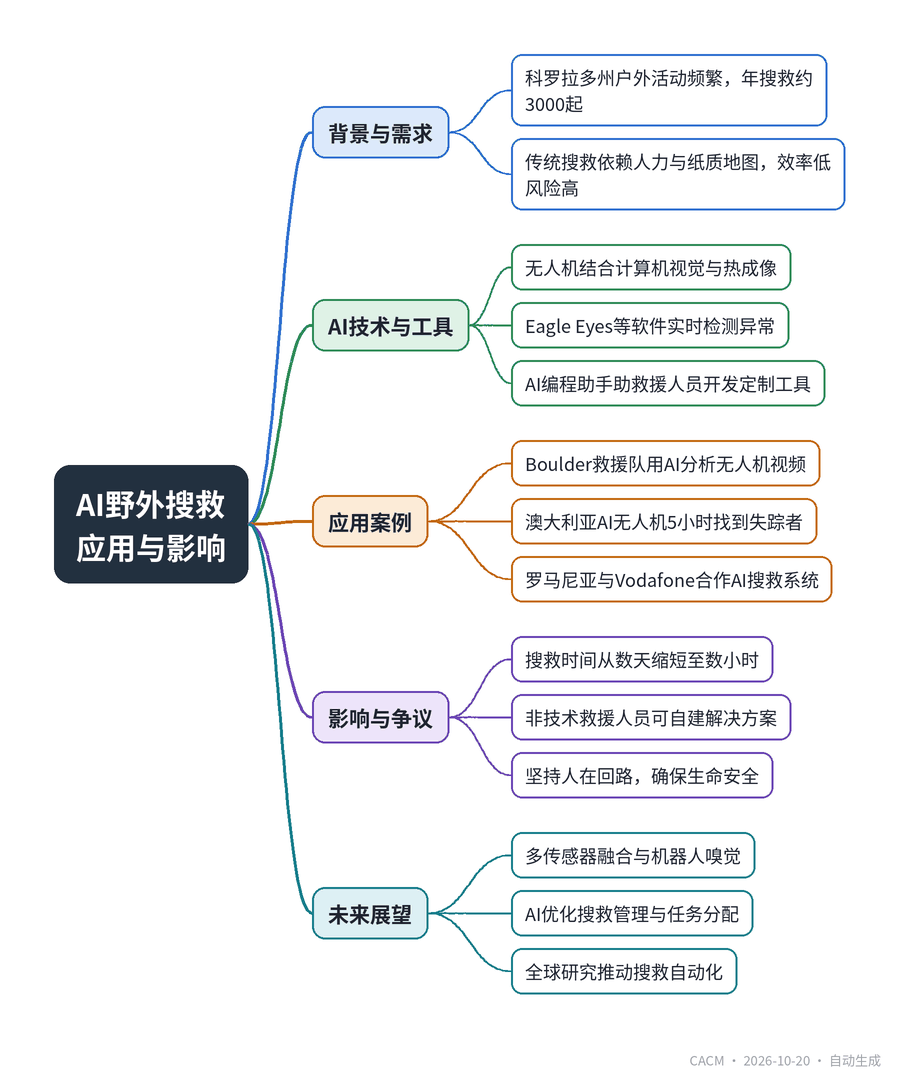
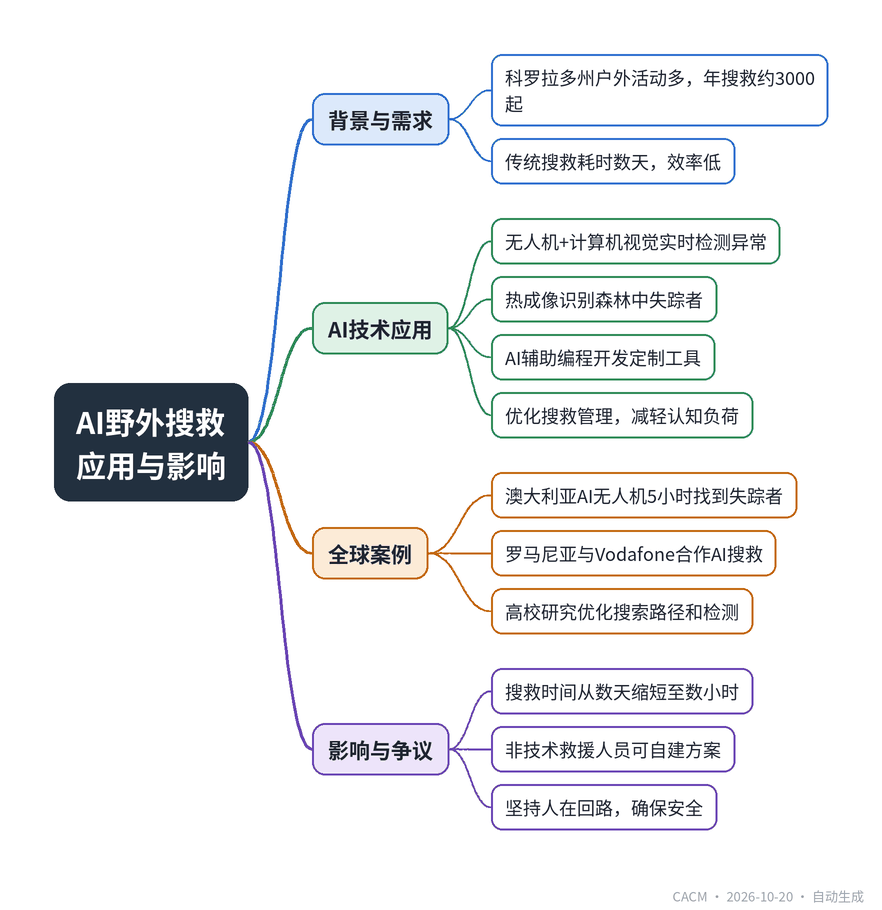
chore: CACM daily 2026-10-26

Changed region(s): [[0.0612, 0.0308, 0.949, 0.9538], [0.7653, 0.9846, 0.9796, 1.0]]

diff --git a/articles/2026-10-19-ai-finds-its-way-into-backcountry-search-and-rescue/article.md b/articles/2026-10-19-ai-finds-its-way-into-backcountry-search-and-rescue/article.md
@@ -4,7 +4,7 @@
 
 **来源**：Communications of the ACM（News）　|　**发布**：2026-10-19 14:12（美东）　|　**北京时间**：2026-10-20 02:12　|　**作者**：Karen Emslie
 
-[原文链接](https://cacm.acm.org/news/ai-finds-its-way-into-backcountry-search-and-rescue/)　·　生成于 2026-10-25 16:19
+[原文链接](https://cacm.acm.org/news/ai-finds-its-way-into-backcountry-search-and-rescue/)　·　生成于 2026-10-26 15:03
 
 ![思维导图](mindmap.png)
 
@@ -12,37 +12,36 @@
 
 ## 一、摘要
 
-> AI正帮助搜救队定位和营救失踪者，并让部分救援人员变身程序员。
+> AI帮助搜救队定位和救援，甚至让救援者变身程序员。
 
-在科罗拉多州，每年约发生3000起搜救事件，传统搜救依赖人力与纸质地图，耗时且风险高。自2013年起，Boulder紧急救援队开始使用无人机，如今结合计算机视觉、热成像和AI软件（如Eagle Eyes），能实时分析无人机视频，识别异常颜色、形状或运动，从而快速定位失踪者。AI还使非技术救援人员能借助编程助手开发定制工具，如无人机定位器和视频流系统，并优化搜救管理流程。全球范围内，澳大利亚、罗马尼亚、英国和意大利的研究团队也在探索AI搜救应用。尽管AI提升了效率，救援人员强调必须保持“人在回路”的验证，确保生命安全。
+在科罗拉多州等荒野地区，每年约有3000起搜救事件，传统搜救耗时数天。无人机与AI技术正成为搜救的关键工具，通过计算机视觉、热成像和异常检测，能实时分析无人机画面，识别失踪者。博尔德应急小队使用Eagle Eyes等软件，将搜救时间从数天缩短至数小时。AI还让非技术救援人员能自行构建解决方案，如用AI辅助编程开发无人机定位和视频流系统。同时，AI被用于优化搜救管理，减轻第一小时的认知负荷。全球范围内，澳大利亚、罗马尼亚等地也在应用AI搜救。尽管拥抱AI，救援人员坚持“人在回路”验证，确保生命安全。
 
 ## 二、核心要点
 
-1. 科罗拉多州每年约发生3000起搜救事件，Boulder紧急救援队自2013年起使用无人机，结合AI技术提升搜救效率。
-2. AI软件如Eagle Eyes能实时分析无人机视频，通过颜色、形状异常检测定位失踪者，热成像可穿透森林等视觉障碍。
-3. 救援人员利用AI编程助手开发定制工具，如无人机定位器和视频流系统，满足特定技术和隐私需求。
-4. AI还用于优化搜救管理，自动化签到和表单填写，并在搜救第一小时提供初步规划和任务分配建议。
-5. 全球多个团队在研究AI搜救，如澳大利亚用AI无人机5小时内找到失踪徒步者，罗马尼亚与Vodafone合作开发AI搜救系统。
-6. 救援人员坚持“人在回路”原则，强调AI决策必须经过经验丰富的救援人员验证，以确保生命安全。
+1. 科罗拉多州每年约3000起搜救事件，AI和无人机将部分搜救从数天缩短至数小时。
+2. 博尔德应急小队使用Eagle Eyes等软件，通过计算机视觉和热成像实时检测异常，定位失踪者。
+3. AI作为编程助手，让非技术救援人员开发定制工具，如无人机定位和视频流系统。
+4. AI用于优化搜救管理，自动化签到和表单填写，减轻第一小时的认知负荷。
+5. 全球应用：澳大利亚用AI无人机5小时找到失踪徒步者，罗马尼亚与Vodafone合作开发AI搜救系统。
+6. 救援人员坚持“人在回路”验证，确保AI决策不危及生命安全。
 
 ## 三、关键词对照
 
 | English | 中文 |
 | --- | --- |
 | Search and Rescue (SAR) | 搜救 |
-| computer vision | 计算机视觉 |
-| thermal imaging | 热成像 |
-| anomaly detection | 异常检测 |
-| human-in-the-loop | 人在回路 |
-| deep reinforcement learning | 深度强化学习 |
-| drone swarm | 无人机集群 |
-| georeferenced aerial maps | 地理参考航空地图 |
+| Computer Vision | 计算机视觉 |
+| Thermal Imaging | 热成像 |
+| Anomaly Detection | 异常检测 |
+| Human-in-the-loop | 人在回路 |
+| Deep Reinforcement Learning | 深度强化学习 |
+| Secure Reliable Transport (SRT) | 安全可靠传输 |
 
 ## 四、中英对照全文
 
 Encountering a drone during a revitalizing mountain hike can feel irksome and intrusive unless you are lost or injured; then, it just might save your life. Drone technologies and AI are increasingly vital components of search and rescue (SAR) assignments. In some cases, SAR efforts that previously took days can be reduced to hours. AI is not only transforming how SAR is carried out, but it is also enabling rescuers to build bespoke solutions for their teams.
 
-> 在令人心旷神怡的山间徒步时遇到无人机可能会让人感到厌烦和侵扰，除非你迷路或受伤；那时，它可能正好能救你一命。无人机技术和人工智能正日益成为搜救（SAR）任务中至关重要的组成部分。在某些情况下，过去需要数天的搜救工作可以缩短到数小时。人工智能不仅正在改变搜救的实施方式，还使救援人员能够为其团队构建定制化解决方案。
+> 在令人心旷神怡的山间徒步时遇到无人机可能会让人感到烦躁和受侵扰，除非你迷路或受伤了；那时，它可能正好能救你一命。无人机技术和人工智能正日益成为搜救（SAR）任务中至关重要的组成部分。在某些情况下，过去需要数天的搜救工作可以缩短到数小时。人工智能不仅正在改变搜救的实施方式，还使救援人员能够为其团队构建定制化解决方案。
 
 A New Team Member
 
@@ -50,35 +49,35 @@ A New Team Member
 
 Think Colorado, think wilderness. The 103,717.5 sq. mi. state abounds with mountains, canyons, ravines, rivers, and forests; it has an average altitude of 6,800 ft., rising to a peak of 14,433 ft. at Mount Elbert. It is an outdoor enthusiast’s paradise. According to a report by market research firm Longwoods International, Colorado received 96.8 million visitors in 2025. In summer, millions of people safely enjoy activities like hiking, climbing, and whitewater rafting, but inevitably, some get lost or injured. Each year, the Colorado Search and Rescue Association (CSAR) responds to around 3,000 SAR incidents, which can also include urban SAR when, for example, a child or an Alzheimer’s patient becomes lost.
 
-> 想到科罗拉多，就想到荒野。这个面积103,717.5平方英里的州遍布山脉、峡谷、沟壑、河流和森林；平均海拔6,800英尺，在埃尔伯特山达到14,433英尺的顶峰。它是户外爱好者的天堂。根据市场研究公司Longwoods International的一份报告，科罗拉多州在2025年接待了9680万游客。夏季，数百万人安全地享受徒步、攀岩和激流漂流等活动，但不可避免地，有些人会迷路或受伤。每年，科罗拉多搜救协会（CSAR）响应约3,000起搜救事件，其中也可能包括城市搜救，例如儿童或阿尔茨海默病患者走失。
+> 想到科罗拉多，就想到荒野。这个面积103,717.5平方英里的州遍布山脉、峡谷、沟壑、河流和森林；平均海拔6,800英尺，在埃尔伯特山达到14,433英尺的顶峰。它是户外爱好者的天堂。根据市场研究公司Longwoods International的一份报告，科罗拉多州在2025年接待了9680万游客。夏季，数百万人安全地享受徒步、攀登和激流漂流等活动，但不可避免地，有些人会迷路或受伤。每年，科罗拉多搜救协会（CSAR）响应约3,000起搜救事件，其中也可能包括城市搜救，例如儿童或阿尔茨海默病患者走失。
 
 CSAR is an umbrella organization that coordinates volunteer SAR networks in the state, including Boulder Emergency Squad (BES), Rocky Mountain Rescue, and Front Range Rescue Dogs. Steve Lanaghen is a long-serving rescuer with the special tactics group of BES: “We’re a very multifaceted group,” he said. “We do water rescue, dive rescue, airplane crashes, backcountry search, urban search, law support, fire support.”
 
-> CSAR是一个伞形组织，协调该州的志愿者搜救网络，包括博尔德紧急救援队（BES）、落基山救援队和Front Range救援犬队。Steve Lanaghen是BES特种战术组的一名长期救援人员：“我们是一个非常多元化的团队，”他说。“我们做水上救援、潜水救援、飞机坠毁救援、野外搜索、城市搜索、执法支持、消防支持。”
+> CSAR是一个协调全州志愿搜救网络的伞形组织，包括博尔德紧急救援队（BES）、落基山救援队和Front Range救援犬队。Steve Lanaghen是BES特别战术组的一名长期救援人员：“我们是一个非常多元化的团队，”他说。“我们做水上救援、潜水救援、飞机坠毁、野外搜索、城市搜索、执法支持、消防支持。”
 
 Lanaghen has witnessed how technology has changed SAR over the decades. “We’ve gone from using pencils and paper maps on the hood of a car to figure out where people are, to now having a mobile command center with multiple monitors and Starlink; we can stream video back into our emergency operations center in the city.”
 
-> Lanaghen见证了几十年来技术如何改变搜救。“我们从在汽车引擎盖上用铅笔和纸质地图来确定人们的位置，发展到如今拥有带多个显示器和Starlink的移动指挥中心；我们可以将视频流回传到城市的应急运营中心。”
+> Lanaghen见证了几十年来技术如何改变搜救。“我们从在汽车引擎盖上用铅笔和纸质地图来弄清楚人们在哪里，到现在拥有配备多个显示器和Starlink的移动指挥中心；我们可以将视频流回传到城市的应急运营中心。”
 
 BES has been using drones since 2013. They transformed SAR by enabling what Lanaghen called “a bird’s eye view” of a search area, while reducing risk by providing overwatch for rescuers in hazardous conditions, like steep vertical work or river rescues. Today, the squad’s fleet of drones is augmented by AI technologies like computer vision for anomaly detection and thermal imaging, which uses temperature variation to spot missing people in visually obscured areas, like forests.
 
-> BES自2013年以来一直在使用无人机。它们通过提供Lanaghen所说的搜索区域“鸟瞰视图”改变了搜救，同时通过在陡峭垂直作业或河流救援等危险条件下为救援人员提供监视来降低风险。如今，该队的无人机机队得到了人工智能技术的增强，如用于异常检测的计算机视觉和热成像，后者利用温度变化来发现视觉上被遮挡区域（如森林）中的失踪人员。
+> BES自2013年以来一直在使用无人机。它们通过提供Lanaghen所说的搜索区域“鸟瞰视图”改变了搜救，同时通过在危险条件下（如陡峭的垂直作业或河流救援）为救援人员提供监视来降低风险。如今，该队的无人机机队得到了人工智能技术的增强，如用于异常检测的计算机视觉和热成像，后者利用温度变化来发现视觉上被遮挡区域（如森林）中的失踪人员。
 
 Mike Kabjian, who works alongside Lanaghen at BES, sees AI as “a search team member that can do things we can’t.” Models can now analyze drone footage pixel-by-pixel in real time and identify subtle color, shape, or motion anomalies that could signal the location of a person. Kabjian pointed to software such as Eagle Eyes, which “draws a little circle on the screen when it sees a color that statistically shouldn’t be there,” he said. “We’re looking for a person, but it could also be a jacket, a shoe, a backpack.”
 
-> 与Lanaghen一起在BES工作的Mike Kabjian将人工智能视为“一个能做我们做不到的事情的搜索团队成员”。模型现在可以实时逐像素分析无人机 footage，并识别可能表明人员位置的细微颜色、形状或运动异常。Kabjian指出了Eagle Eyes等软件，“当它看到统计上不应存在的颜色时，会在屏幕上画一个小圆圈，”他说。“我们在寻找一个人，但也可能是一件夹克、一只鞋、一个背包。”
+> 与Lanaghen一起在BES工作的Mike Kabjian将人工智能视为“一个能完成我们无法完成的事情的搜索团队成员”。模型现在可以实时逐像素分析无人机镜头，并识别可能表明人员位置的细微颜色、形状或运动异常。Kabjian指出了Eagle Eyes等软件，“当它看到统计上不应存在的颜色时，会在屏幕上画一个小圆圈，”他说。“我们在寻找一个人，但也可能是一件夹克、一只鞋、一个背包。”
 
 The squad also can analyze data from drone live streams, georeferenced aerials maps, and thermal imagery via tools like Nova Maps and ADIAT, and are working with a Boulder-based technology startup, Odin Autonomy, to automate and streamline the operation of swarms of drones on SAR missions.
 
-> 该队还可以通过Nova Maps和ADIAT等工具分析来自无人机直播流、地理参考航空地图和热成像的数据，并正在与博尔德的技术初创公司Odin Autonomy合作，以自动化和简化搜救任务中无人机群的 operation。
+> 该队还可以通过Nova Maps和ADIAT等工具分析来自无人机直播流、地理参考航空地图和热成像的数据，并正在与博尔德的技术初创公司Odin Autonomy合作，以自动化和简化搜救任务中无人机集群的操作。
 
 Lanaghen sees no tension between technology and the outdoors. “We have a lot of people who are very comfortable in the woods and very comfortable behind a computer.” He keeps a keen eye on how the latest AI advances could improve SAR, flagging robotic olfaction or e-nose systems as “out there” but full of potential. Lanaghen said future SAR AI systems could be made up of multiple sensors working together: “Some super-mobile sensor that can fly, swim, crawl under rocks or whatever; that can sense all these different things. It’ll give us a completely different view of what’s out there.”
 
-> Lanaghen认为技术与户外之间没有矛盾。“我们有很多人在树林里非常自在，在电脑前也非常自在。”他密切关注最新的人工智能进展如何改善搜救，将机器人嗅觉或电子鼻系统标记为“超前”但充满潜力。Lanaghen说，未来的搜救人工智能系统可能由多个传感器协同工作组成：“某种超级移动的传感器，可以飞、游泳、在岩石下爬行或其他；它能感知所有这些不同的东西。它将为我们提供关于外面世界的完全不同的视角。”
+> Lanaghen认为技术与户外之间没有矛盾。“我们有很多人在树林里非常自在，在电脑前也非常自在。”他密切关注最新的人工智能进展如何改善搜救，指出机器人嗅觉或电子鼻系统“很前卫”但充满潜力。Lanaghen说，未来的搜救人工智能系统可能由多个传感器协同工作组成：“某种超级移动的传感器，可以飞、游泳、在岩石下爬行或其他什么；可以感知所有这些不同的东西。它将为我们提供一个完全不同的视角来看待外面的世界。”
 
 On a planet full of wilderness, it is unsurprising for AI SAR to have global reach. In June, Fire and Rescue New South Wales in Australia found two missing hikers in Kosciuszko National Park within five hours using an AI-powered drone. Meanwhile, Salvamont, Romania’s National Mountain Rescuers Association, has partnered with Vodafone to build an AI-powered SAR system that captures and analyzes geolocated images to find missing hikers and climbers. In research, a team from Glasgow University, Scotland, has developed a deep reinforcement learning model for optimizing drones’ search paths, and an Italian team has presented an automated object detection pipeline for finding people lost in forests using real-time thermal video.
 
-> 在一个充满荒野的星球上，人工智能搜救具有全球影响力并不令人意外。6月，澳大利亚新南威尔士州消防与救援局使用人工智能驱动的无人机在5小时内找到了科修斯科国家公园的两名失踪徒步者。与此同时，罗马尼亚国家山地救援协会Salvamont与Vodafone合作，构建了一个人工智能驱动的搜救系统，捕获并分析地理定位图像以找到失踪的徒步者和登山者。在研究方面，苏格兰格拉斯哥大学的一个团队开发了一种深度强化学习模型，用于优化无人机的搜索路径，一个意大利团队提出了一种自动化物体检测流程，利用实时热视频寻找在森林中失踪的人。
+> 在一个充满荒野的星球上，人工智能搜救具有全球影响力并不令人意外。6月，澳大利亚新南威尔士州消防与救援局使用人工智能驱动的无人机在5小时内找到了科修斯科国家公园的两名失踪徒步者。与此同时，罗马尼亚国家山地救援协会Salvamont与Vodafone合作，构建了一个人工智能驱动的搜救系统，捕获并分析地理定位图像以找到失踪的徒步者和登山者。在研究方面，苏格兰格拉斯哥大学的一个团队开发了一种深度强化学习模型，用于优化无人机的搜索路径，一个意大利团队提出了一种自动化目标检测流程，利用实时热视频寻找在森林中迷路的人。
 
 The SAR Programmer
 
@@ -86,15 +85,15 @@ The SAR Programmer
 
 It is not only developers and researchers who are innovating AI for SAR. For Kabjian, one of the greatest impacts of AI on SAR is enabling non-technical rescuers to build solutions. Tools for de-confliction, that is, knowing the position of other drones in an area to avoid accidents, exist, but can be expensive or not an exact fit for a SAR team’s needs, so Kabjian built his own. Using AI as a programming assistant, he created a drone finder that plots positional data onto CalTopo, the backcountry map software the squad uses. Design of the hardware—external antenna on the command vehicle—also was assisted by AI. As Kabjian puts it, “AI’s not in the product, but AI built the product.”
 
-> 不仅是开发人员和研究人员在为搜救创新人工智能。对Kabjian来说，人工智能对搜救的最大影响之一是使非技术救援人员能够构建解决方案。用于冲突消除（即了解区域内其他无人机的位置以避免事故）的工具存在，但可能昂贵或不能完全符合搜救团队的需求，因此Kabjian构建了自己的工具。使用人工智能作为编程助手，他创建了一个无人机查找器，将位置数据绘制到CalTopo上，这是该队使用的野外地图软件。硬件设计——指挥车上的外部天线——也得到了人工智能的协助。正如Kabjian所说，“人工智能不在产品中，但人工智能构建了产品。”
+> 为搜救创新人工智能的不仅仅是开发者和研究人员。对Kabjian来说，人工智能对搜救的最大影响之一是使非技术救援人员能够构建解决方案。用于消除冲突（即了解区域内其他无人机的位置以避免事故）的工具存在，但可能昂贵或不完全符合搜救团队的需求，因此Kabjian构建了自己的工具。使用人工智能作为编程助手，他创建了一个无人机查找器，将位置数据绘制到该队使用的野外地图软件CalTopo上。硬件设计——指挥车上的外部天线——也得到了人工智能的协助。正如Kabjian所说，“人工智能不在产品中，但人工智能构建了产品。”
 
 It is an approach he and Lanaghen currently are deploying to design an SAR video streaming system that fits the squad’s specific technical and privacy needs. “We need it fed without any lag into our command vehicle,” said Kabjian. “Simultaneous to that, we need an encrypted stream going to the cloud, not using RTSP [Real-Time Streaming Protocol], but using SRT [Secure Reliable Transport].”
 
-> 他和Lanaghen目前正在采用这种方法来设计一个符合该队特定技术和隐私需求的搜救视频流系统。“我们需要它无任何延迟地馈送到我们的指挥车中，”Kabjian说。“与此同时，我们需要一个加密流传输到云端，不使用RTSP [实时流协议]，而是使用SRT [安全可靠传输]。”
+> 他和Lanaghen目前正在采用这种方法来设计一个符合该队特定技术和隐私需求的搜救视频流系统。“我们需要它无任何延迟地传入我们的指挥车，”Kabjian说。“与此同时，我们需要一个加密流传输到云端，不使用RTSP [实时流协议]，而是使用SRT [安全可靠传输]。”
 
 Another area ripe for improvement with AI is SAR management. Kabjian described “the madness that is the first hour of a search,” when information like a person’s description and where they might have gone need to be processed and rescuers are mustering. “There’s people talking to you, there’s trucks coming, and everybody’s excited to go do something. It’s cognitive overload,” he said. Kabjian and Lanaghen aim to make this process “a more efficient machine” by automating rescuer check-in and form filling, and using AI to carry out initial planning and suggest rescue assignments.
 
-> 另一个适合用人工智能改进的领域是搜救管理。Kabjian描述了“搜索第一小时的疯狂”，当时需要处理人员描述和可能去向等信息，救援人员正在集结。“有人在跟你说话，有卡车开来，每个人都兴奋地想去做什么。这是认知超载，”他说。Kabjian和Lanaghen旨在通过自动化救援人员签到和表格填写，并使用人工智能进行初步规划和建议救援任务，使这个过程成为“更高效的机器”。
+> 另一个适合用人工智能改进的领域是搜救管理。Kabjian描述了“搜索第一小时的疯狂”，那时需要处理人员描述和可能去向等信息，救援人员正在集结。“有人在跟你说话，有卡车开来，每个人都兴奋地想去做什么。这是认知超载，”他说。Kabjian和Lanaghen旨在通过自动化救援人员签到和填表，并使用人工智能进行初步规划和建议救援任务，使这个过程成为“更高效的机器”。
 
 Despite enthusiastically embracing AI, both seasoned rescuers stressed they will always take a strict “human-in-the-loop” verification approach. Said Kabjian, “Our key focus is life safety, we won’t be able to turn that completely over to a computer. We need experienced rescuers’ eyes on it to make sure that no one is endangered by the technology’s decision-making.”
 
@@ -106,7 +105,7 @@ For many, time in the wilderness means a break from technology, but when it come
 
 Karen Emslie is a location-independent freelance journalist and essayist.
 
-> Karen Emslie是一位地点独立的自由记者和散文家。
+> Karen Emslie是一位地点独立的自由记者和散文作家。
 
 ---
 *英文原文版权归 Communications of the ACM 及作者所有；中文译文由 AI 辅助生成，仅供学习参考。*
